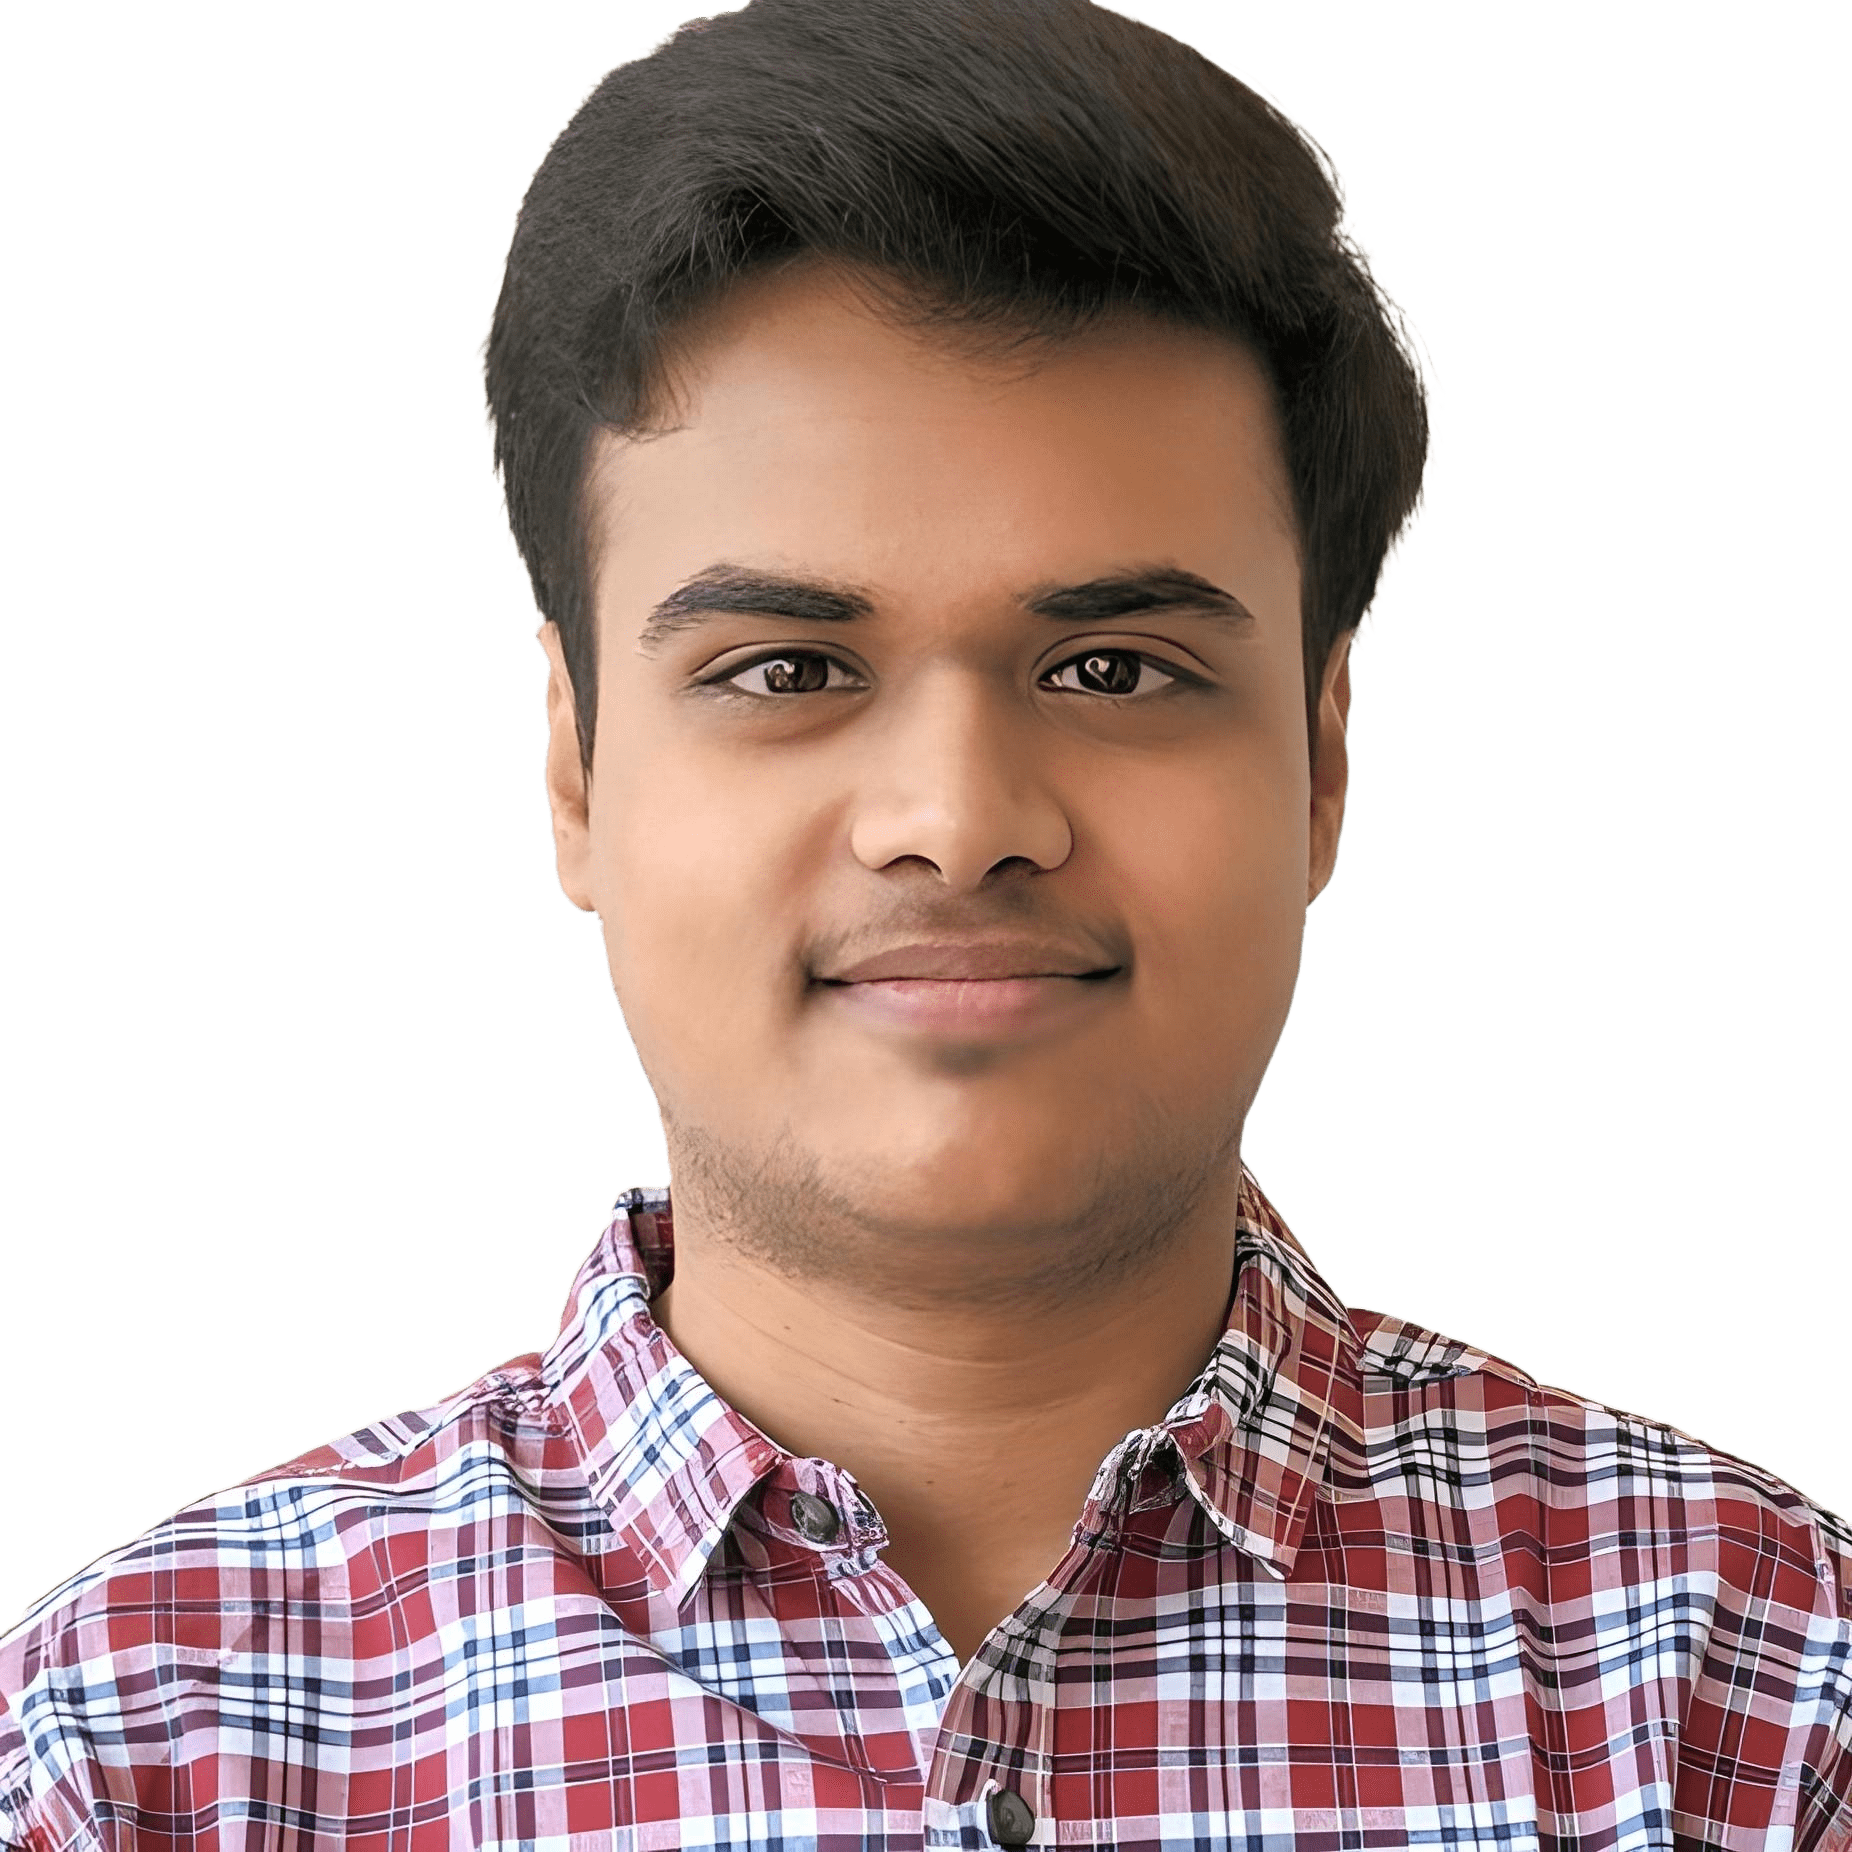
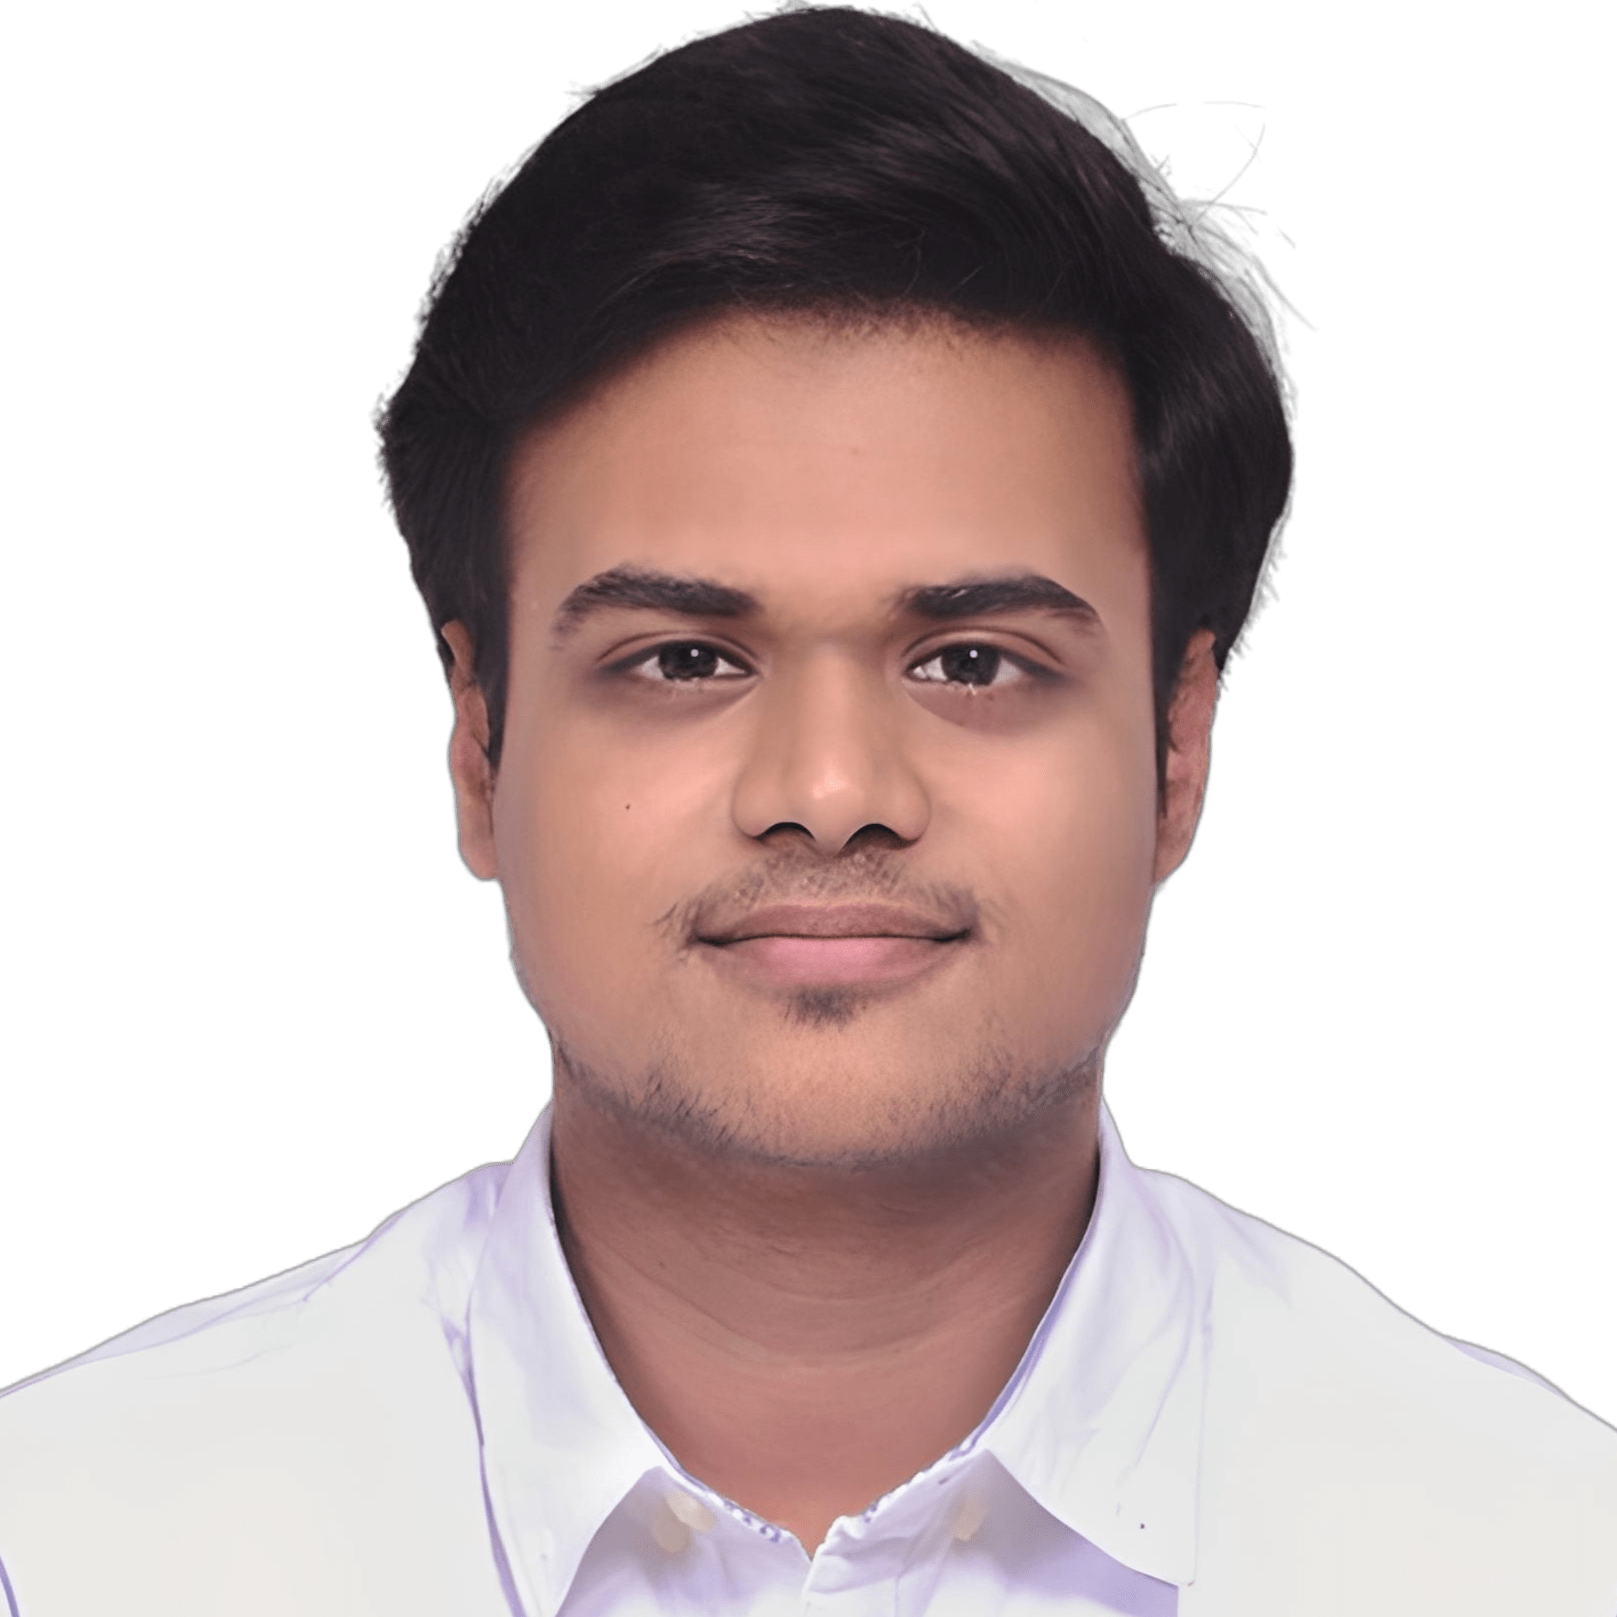
minor changes

diff --git a/styles/Home.module.css b/styles/Home.module.css
@@ -18,9 +18,14 @@
 
 .main>img {
     width: 400px;
+    height: 400px;
     border-radius: 50%;
     box-shadow: 1px 0 0.5px 0.5px rgb(var(--black-rgb));
-    filter: /* sepia(10%) */ grayscale(80%);
+    filter: /* sepia(10%) */ grayscale(70%);
+
+    aspect-ratio: 1 / 1;
+    object-fit: cover;
+    object-position: center;
 }
 
 .main>.description {
@@ -146,7 +151,7 @@
 
     .main>img {
         height: 300px;
-        width: unset;
+        width: 300px;
     }
 
     .welcome, .heading {

diff --git a/styles/Projects.module.css b/styles/Projects.module.css
@@ -14,7 +14,7 @@
     left: 5vw;
     fill: rgb(var(--faint-grey-rgb));
     z-index: -1;
-    animation: move 60s ease-in-out infinite;
+    animation: move 48s ease-in-out infinite;
 }
 .blob>svg {
     height: 100%;
